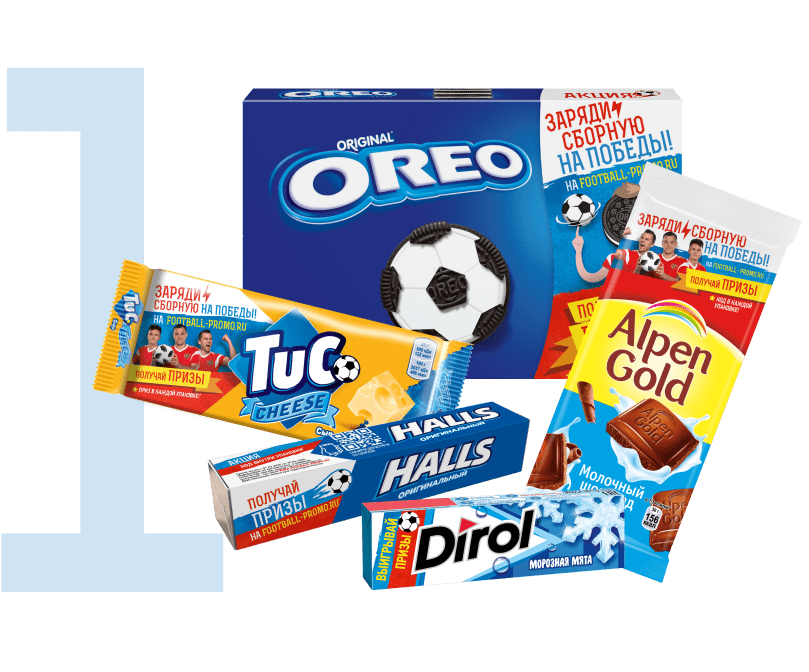
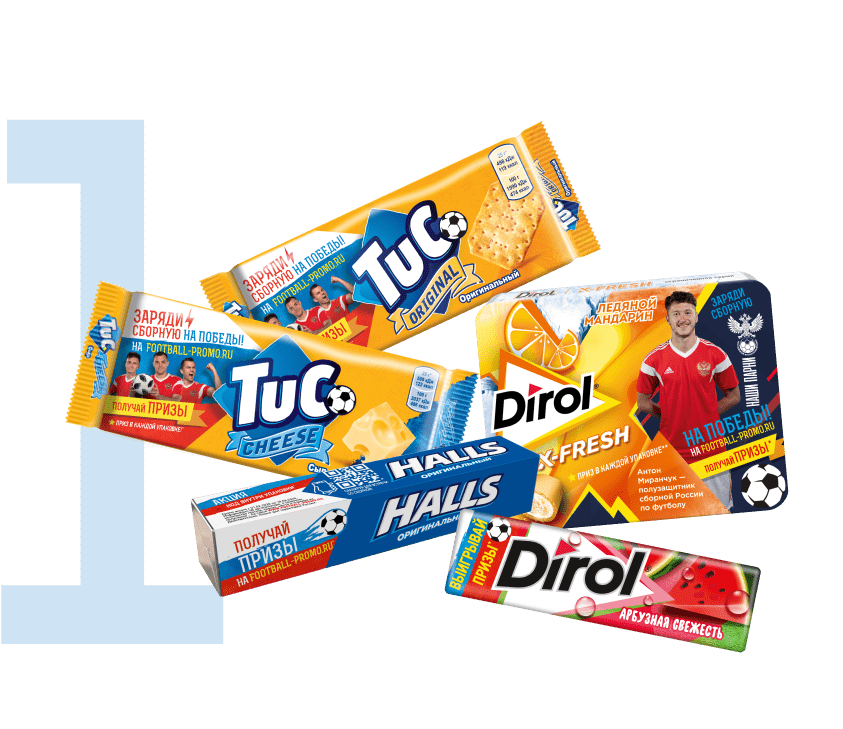
june update

diff --git a/how-to-win.html b/how-to-win.html
@@ -74,7 +74,7 @@
 								<img src="img/how-to/1.png" alt="">
 							</div>
 							<div class="win-text win-text1">
-								<p>Чтобы принять участие в акции <br>необходимо купить продукт: <b>Alpen <br>Gold, Oreo, TUC, Halls, Dirol</b> в промо <br>упаковке и зарегистрировать код <br>на сайте.</p>
+								<p>Чтобы принять участие в акции <br>необходимо купить продукт: <br><b>TUC, Halls, Dirol</b> в промо <br>упаковке и зарегистрировать код <br>на сайте.</p>
 								<form class="register-code-field">
 			                		<input type="text" name="code" placeholder="Введи код с пачки" required>
 			                		<button></button>
@@ -94,12 +94,12 @@
 								<div class="buy buy1">
 									<img src="img/how-to/step2-1.png" alt="">
 								</div>
-								<div class="buy buy2">
+								<!-- <div class="buy buy2">
 									<img src="img/how-to/step2-2.png" alt="">
 								</div>
 								<div class="buy buy3">
 									<img src="img/how-to/step2-3.png" alt="">
-								</div>
+								</div> -->
 							</div>
 							<div class="win-step-remark win-step2-remark">
 								* При регистрации кодов с упаковки TUC, Dirol и Hall, необходимо подтвердить совершенную покупку загрузкой чека. <br>

diff --git a/css/styles.css b/css/styles.css
@@ -1268,11 +1268,13 @@ span.error {
 .main-products .slick-dots li:nth-child(1) {
 	background: url(../img/ag.png) center no-repeat, linear-gradient(0deg, rgba(243, 213, 78, 0.8), rgba(243, 213, 78, 0.8)), #FFFFFF;
     background-size: 76px;
+    opacity: .6;
 }
 
 .main-products .slick-dots li:nth-child(2) {
 	background: url(../img/oreo.png) center no-repeat, #2D4291;
 	background-size: 84px;
+    opacity: .6;
 }
 
 .main-products .slick-dots li:nth-child(3) {
@@ -4957,11 +4959,13 @@ table td {
 }
 
 .buy {
+    max-width: 391px;
+    width: 100%;
 	position: relative;
-	margin: 0 30px;
+	margin: auto;
 }
 
-.buy1::after,
+/*.buy1::after,
 .buy2::after {
 	content: '';
 	position: absolute;
@@ -4972,7 +4976,7 @@ table td {
 	height: 86px;
 	margin: auto;
 	background: rgba(0, 0, 0, .1);
-}
+}*/
 
 .win-step-remark {
 	font-family: Montserrat;
